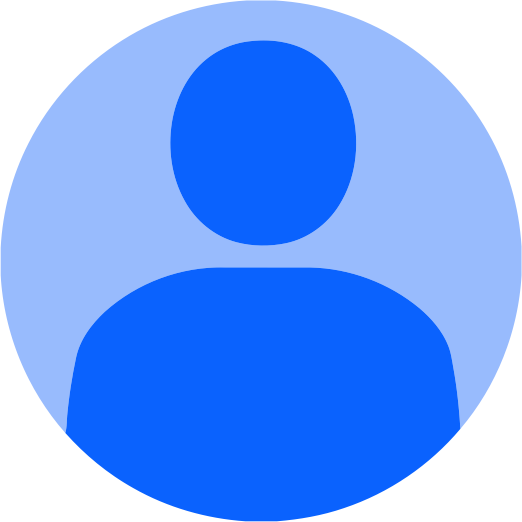
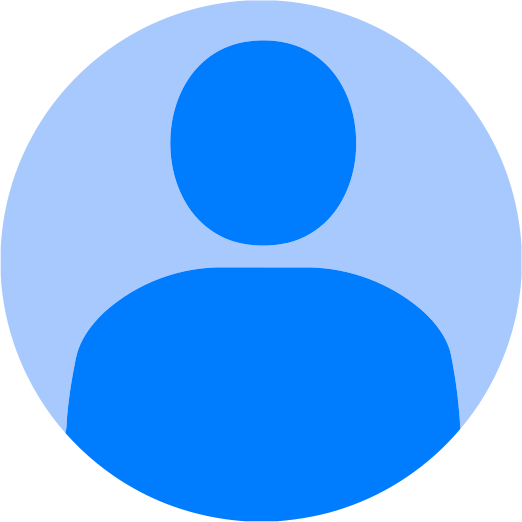
was making some style adjustments, optimized image sizes for faster loading, Account Settings is done

diff --git a/src/components/BusinessDashboard/AccountSettings/DeleteAccount.jsx b/src/components/BusinessDashboard/AccountSettings/DeleteAccount.jsx
@@ -6,9 +6,11 @@ const DeleteAccount = () => {
     const [showModal, setShowModal] = useState(false);
     const [confirmationStep, setConfirmationStep] = useState(0);
     const [confirmationText, setConfirmationText] = useState('');
+    const [isInputError, setIsInputError] = useState(false);
     const modalRef = useRef();
 
-    const businessName = 'ABC Business';
+    // Here we need to add the business name from the database
+    const businessName = 'Big Business';
 
     const handleDeleteClick = () => {
         setShowModal(true);
@@ -19,12 +21,12 @@ const DeleteAccount = () => {
     };
 
     const handleFinalDelete = () => {
-        if (confirmationText === 'ABC Business') {
+        if (confirmationText === businessName) {
             console.log('Account deleted');
             setShowModal(false);
             // Here you would typically call an API to delete the account
         } else {
-            alert('Incorrect confirmation text. Please try again.');
+            setIsInputError(true);
         }
     };
 
@@ -32,6 +34,12 @@ const DeleteAccount = () => {
         setShowModal(false);
         setConfirmationStep(0);
         setConfirmationText('');
+        setIsInputError(false);
+    };
+
+    const handleInputChange = (e) => {
+        setConfirmationText(e.target.value);
+        setIsInputError(false);
     };
 
     useEffect(() => {
@@ -67,7 +75,7 @@ const DeleteAccount = () => {
             </div>
 
             {showModal && (
-                <div className="fixed inset-0 bg-gray-600 bg-opacity-50 overflow-y-auto h-full w-full flex items-center justify-center">
+                <div className="fixed inset-0 bg-black bg-opacity-50 overflow-y-auto h-full w-full flex items-center justify-center">
                     <div ref={modalRef} className="bg-white p-8 rounded-lg shadow-xl max-w-md w-full relative">
                         <button
                             onClick={closeModal}
@@ -93,10 +101,14 @@ const DeleteAccount = () => {
                                     <input
                                         type="text"
                                         value={confirmationText}
-                                        onChange={(e) => setConfirmationText(e.target.value)}
-                                        className="w-full text-sm px-3 py-2 border border-gray-300 rounded-md shadow-sm focus:outline-none focus:ring-red-500 focus:border-red-500 mb-4"
+                                        onChange={handleInputChange}
+                                        className={`w-full text-sm px-3 py-2 border rounded-md shadow-sm focus:outline-none focus:ring-red-500 focus:border-red-500 mb-2 ${isInputError ? 'border-red-500' : 'border-gray-300'
+                                            }`}
                                         placeholder="Enter your Business Name"
                                     />
+                                    {isInputError && (
+                                        <p className="text-red-500 text-xs mb-2">Incorrect business name. Please try again.</p>
+                                    )}
                                     <button
                                         className="btn-red block mx-auto"
                                         onClick={handleFinalDelete}
